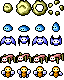
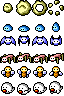
Spook enemy

diff --git a/src/enemytypes.ts b/src/enemytypes.ts
@@ -6,7 +6,8 @@
 
 
 const getEnemyList = () : Array<Function> => [
-    Slime, Bat, Spider, Fly
+    Slime, Bat, Spider, Fly,
+    Spook
 ];
 
 
@@ -16,11 +17,9 @@ class Slime extends Enemy {
     private dir : Vector2;
 
 
-    constructor(x : number, y : number, 
-        flyingText : ObjectGenerator<FlyingText>,
-        collectibles : ObjectGenerator<Collectible>) {
+    constructor(x : number, y : number) {
 
-        super(x, y, 1, 5, flyingText, collectibles);
+        super(x, y, 1, 5);
 
         this.shadowType = 1;
         this.spr.setFrame((Math.random() * 4) | 0, this.spr.getRow());
@@ -76,11 +75,9 @@ class Bat extends Enemy {
     private dir : Vector2;
 
 
-    constructor(x : number, y : number, 
-        flyingText : ObjectGenerator<FlyingText>,
-        collectibles : ObjectGenerator<Collectible>) {
+    constructor(x : number, y : number) {
 
-        super(x, y, 2, 7, flyingText, collectibles);
+        super(x, y, 2, 7);
 
         this.shadowType = 1;
         this.spr.setFrame((Math.random() * 4) | 0, this.spr.getRow());
@@ -129,11 +126,9 @@ class Spider extends Enemy {
     static MOVE_TIME = 60;
 
 
-    constructor(x : number, y : number, 
-        flyingText : ObjectGenerator<FlyingText>,
-        collectibles : ObjectGenerator<Collectible>) {
+    constructor(x : number, y : number) {
 
-        super(x, y, 3, 10, flyingText, collectibles);
+        super(x, y, 3, 10);
 
         this.shadowType = 0;
         this.spr.setFrame(0, this.spr.getRow());
@@ -215,11 +210,9 @@ class Fly extends Enemy {
     static WAIT_TIME = 120;
 
 
-    constructor(x : number, y : number, 
-        flyingText : ObjectGenerator<FlyingText>,
-        collectibles : ObjectGenerator<Collectible>) {
+    constructor(x : number, y : number) {
 
-        super(x, y, 4, 7, flyingText, collectibles);
+        super(x, y, 4, 7);
 
         this.shadowType = 1;
         this.spr.setFrame(0, this.spr.getRow());
@@ -270,3 +263,67 @@ class Fly extends Enemy {
 
 }
 
+
+
+class Spook extends Enemy {
+
+    
+    private dir : Vector2;
+    private angleDif : number;
+
+
+    constructor(x : number, y : number) {
+
+        super(x, y, 5, 10);
+
+        this.shadowType = 1;
+        this.spr.setFrame((Math.random() * 4) | 0, this.spr.getRow());
+
+        this.friction = new Vector2(0.025, 0.025);
+        this.dir = new Vector2(0, 1);
+
+        this.radius = 4;
+        this.damage = 3;
+
+        this.hitbox = new Vector2(6, 4);
+        this.collisionBox = this.hitbox.clone();
+        this.damageBox = new Vector2(10, 10);
+
+        this.avoidWater = false;
+        this.disableCollisions = true;
+
+        this.angleDif = Math.random() * Math.PI * 2;
+    }
+
+
+    protected updateAI(ev : GameEvent) {
+        
+        const ANIM_SPEED = 10;
+        const MOVE_SPEED = 0.5;
+        const ANGLE_DIF_SPEED = 0.025;
+
+        this.spr.animate(this.spr.getRow(), 0, 3, ANIM_SPEED, ev.step);
+        this.flip = this.speed.x < 0 ? Flip.None : Flip.Horizontal;
+
+        this.angleDif = (this.angleDif + ANGLE_DIF_SPEED * ev.step) % 
+			(Math.PI * 2);
+
+        this.target = Vector2.scalarMultiply(this.dir, MOVE_SPEED);
+    }
+
+
+    protected playerEvent(pl : Player, ev : GameEvent) {
+
+        const ORBIT_RADIUS = 32.0;
+
+		let px = pl.getPos().x + Math.cos(this.angleDif) * ORBIT_RADIUS;
+		let py = pl.getPos().y + Math.sin(this.angleDif) * ORBIT_RADIUS;
+
+		this.dir = (new Vector2(
+				px - this.pos.x, 
+				py - this.pos.y))
+			.normalize(true);
+        // this.dir = Vector2.direction(this.pos, pl.getPos());
+    }
+
+}

diff --git a/src/enemy.ts b/src/enemy.ts
@@ -12,8 +12,9 @@ abstract class Enemy extends CollisionObject {
     private swordHitId : number;
     private magicHitId : number;
 
-    private readonly flyingText : ObjectGenerator<FlyingText>;
-    private readonly collectibles : ObjectGenerator<Collectible>;
+    private flyingText : ObjectGenerator<FlyingText>;
+    private collectibles : ObjectGenerator<Collectible>;
+    private bullets : ObjectGenerator<Bullet>;
 
     protected flip : Flip;
     protected shadowType : number;
@@ -30,10 +31,7 @@ abstract class Enemy extends CollisionObject {
     protected canBeReset : boolean;
 
     
-    constructor(x : number, y : number, row : number,
-        health : number,
-        flyingText : ObjectGenerator<FlyingText>,
-        collectibles : ObjectGenerator<Collectible>) {
+    constructor(x : number, y : number, row : number, health : number) {
 
         super(x, y);
 
@@ -62,10 +60,20 @@ abstract class Enemy extends CollisionObject {
         this.damageBox = new Vector2(this.spr.width, this.spr.height);
         this.hurtTimer = 0;
 
+        this.canBeReset = false;
+    }
+
+
+    public passGenerators(
+        flyingText : ObjectGenerator<FlyingText>,
+        collectibles : ObjectGenerator<Collectible>,
+        bullets : ObjectGenerator<Bullet>) : Enemy {
+
         this.flyingText = flyingText;
         this.collectibles = collectibles;
+        this.bullets = bullets;
 
-        this.canBeReset = false;
+        return this;
     }
 
 

diff --git a/src/enemycontainer.ts b/src/enemycontainer.ts
@@ -13,13 +13,24 @@ class EnemyContainer {
 
     public readonly maxEnemyTypeIndex : number;
 
+    private readonly flyingText : ObjectGenerator<FlyingText>;
+    private readonly collectibles : ObjectGenerator<Collectible>;
+    private readonly bullets : ObjectGenerator<Bullet>;
 
-    constructor(types : Array<Function>) {
+
+    constructor(types : Array<Function>,
+            flyingText : ObjectGenerator<FlyingText>,
+            collectibles : ObjectGenerator<Collectible>,
+            bullets : ObjectGenerator<Bullet>) {
 
         this.objects = new Array<Enemy> ();
         this.types = Array.from(types);
 
         this.maxEnemyTypeIndex = this.types.length -1;
+
+        this.flyingText = flyingText;
+        this.collectibles = collectibles;
+        this.bullets = bullets;
     }
 
 
@@ -36,8 +47,10 @@ class EnemyContainer {
         flyingText : ObjectGenerator<FlyingText>,
         collectibles : ObjectGenerator<Collectible>) {
 
-        this.objects.push(new this.types[type].prototype.constructor(
-            x, y, flyingText, collectibles));
+        this.objects.push((new this.types[type].prototype.constructor(
+            x, y, flyingText, collectibles)).passGenerators(
+                this.flyingText, this.collectibles, this.bullets
+            ));
     }
 
 

diff --git a/src/a_gameobject.ts b/src/a_gameobject.ts
@@ -160,6 +160,7 @@ abstract class CollisionObject extends GameObject {
     protected bounceFactor : number;
     protected ignoreDeathOnCollision : boolean;
     protected avoidWater : boolean;
+    protected disableCollisions : boolean;
 
     protected enableCameraCollision : boolean;
 
@@ -174,6 +175,8 @@ abstract class CollisionObject extends GameObject {
         this.ignoreDeathOnCollision = false;
         this.avoidWater = false;
         this.enableCameraCollision = true;
+
+        this.disableCollisions = false;
     }
 
 
@@ -190,7 +193,7 @@ abstract class CollisionObject extends GameObject {
         const FAR_MARGIN = 6;
         
         if (!this.inCamera ||
-            //(!force && this.disableCollisions) ||
+            (!force && this.disableCollisions) ||
             !this.exist || this.dying || 
             this.speed.x * dir < EPS) 
             return false;
@@ -232,7 +235,7 @@ abstract class CollisionObject extends GameObject {
         const FAR_MARGIN = 6;
         
         if (!this.inCamera ||
-            //(!force && this.disableCollisions) ||
+            (!force && this.disableCollisions) ||
             !this.exist || this.dying || 
             this.speed.y * dir < EPS) 
             return false;

diff --git a/src/objectmanager.ts b/src/objectmanager.ts
@@ -24,7 +24,8 @@ class ObjectManager {
         this.collectibles = new ObjectGenerator<Collectible> (Collectible);
         this.player = new Player(80, 72, this.bullets, this.flyingText, status);
         
-        this.enemies = new EnemyContainer(getEnemyList());
+        this.enemies = new EnemyContainer(getEnemyList(),
+            this.flyingText, this.collectibles, this.bullets);
 
         this.objectRenderBuffer = new Array<GameObject> ();
     }
